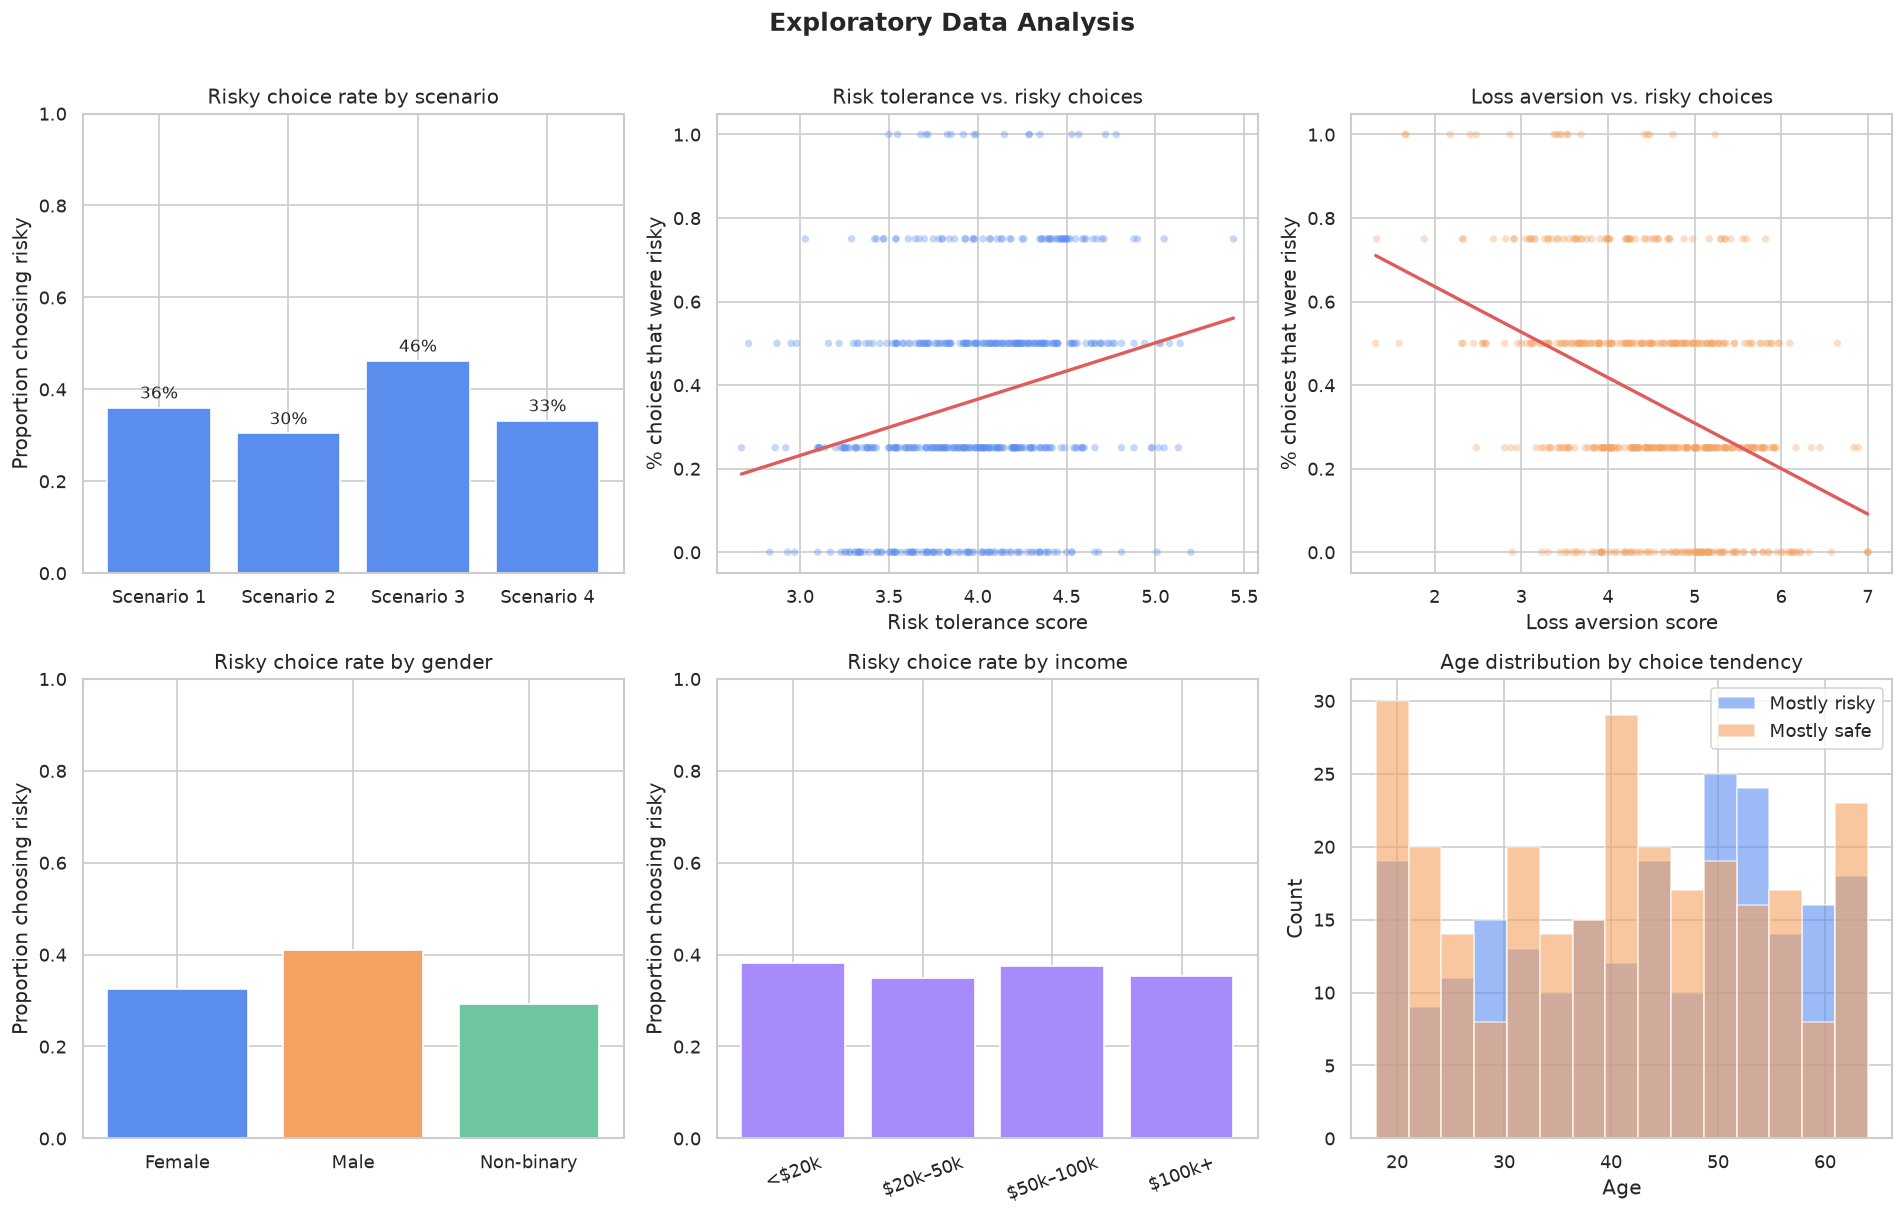
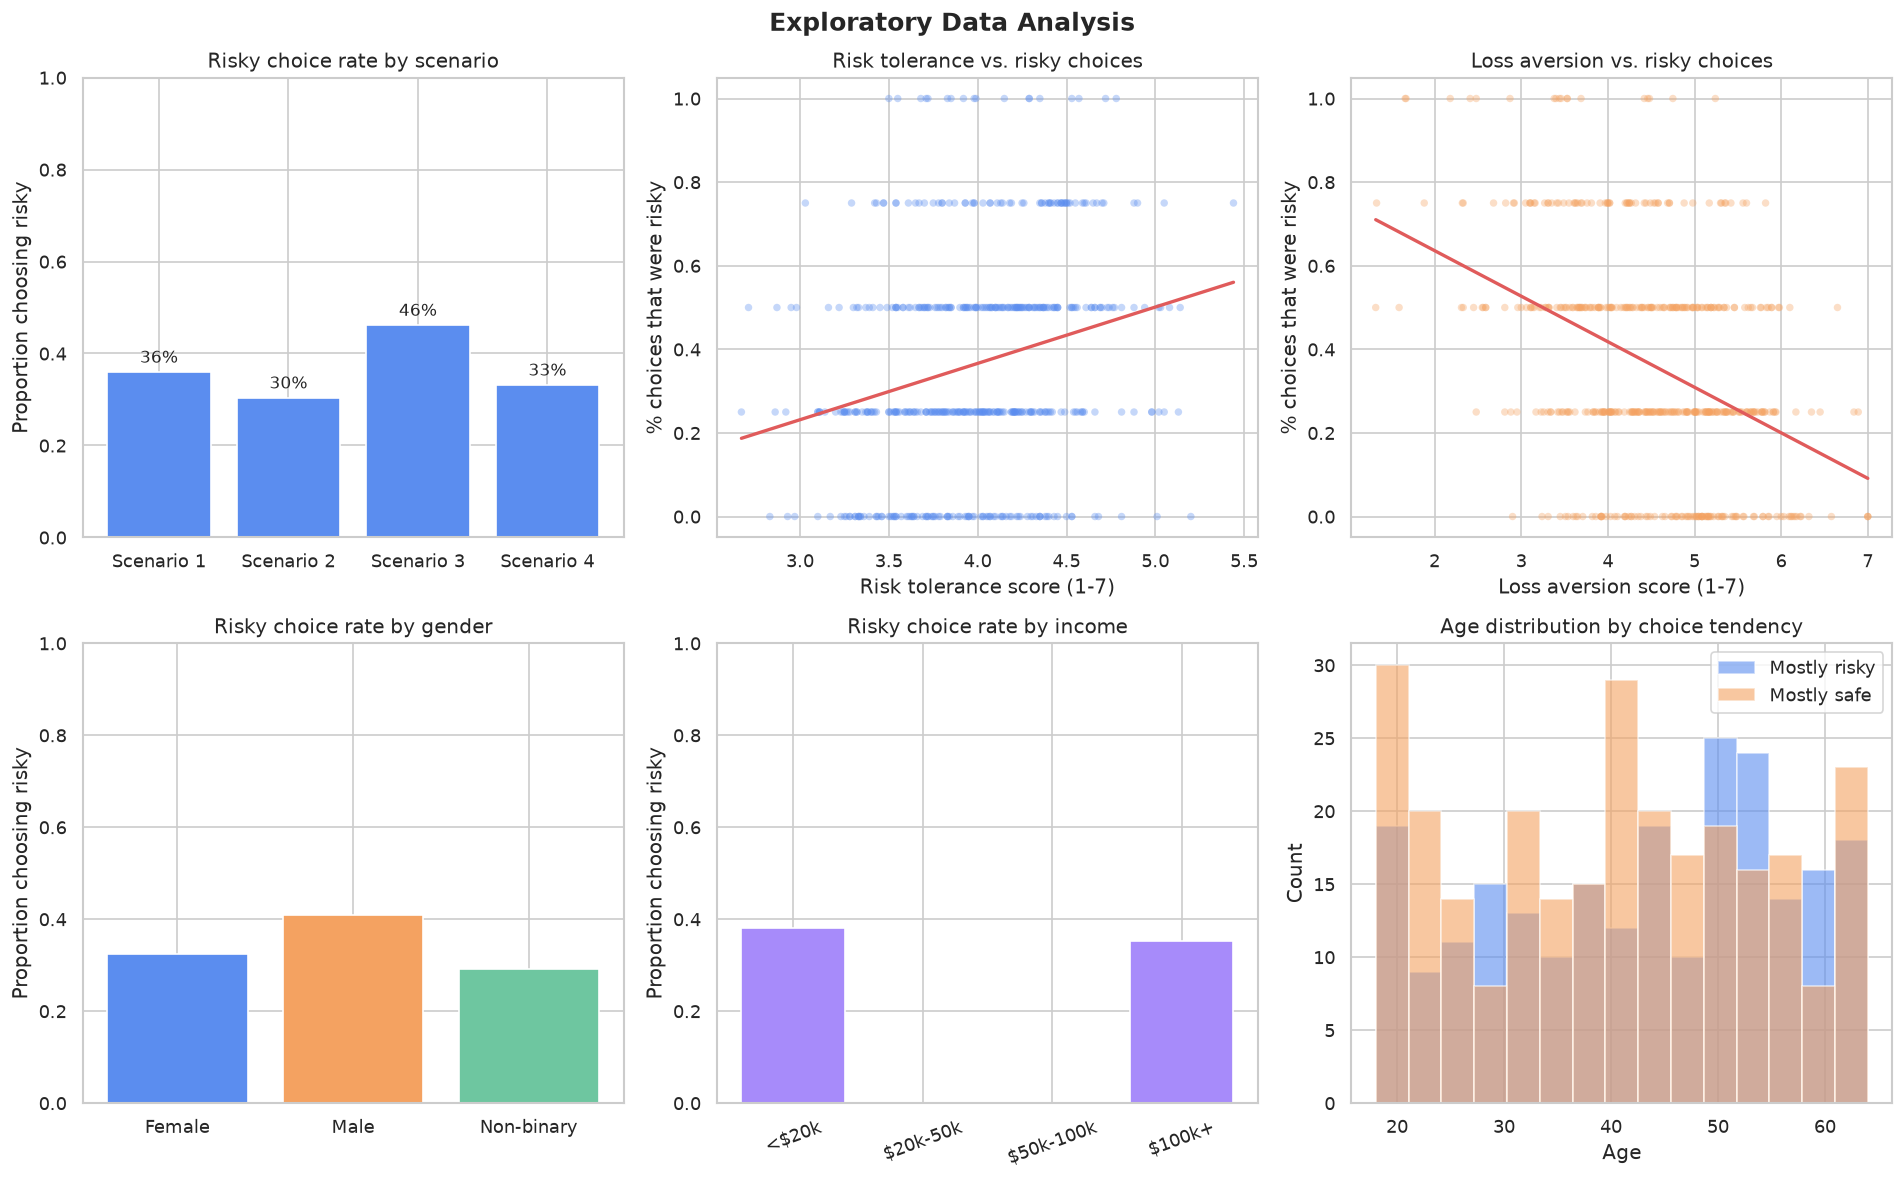
update analysis.py

diff --git a/analysis.py b/analysis.py
@@ -1,21 +1,10 @@
-"""
-analysis.py
-Full analysis pipeline for Decision Making Under Risk.
-Requires: data.csv (run generate_data.py first)
-
-Steps:
-  1. Load & explore data
-  2. Descriptive stats + EDA plots
-  3. Feature engineering
-  4. Logistic regression model
-  5. Model evaluation & interpretation
-  6. Visualization of key findings
-"""
+# analysis.py
+# run this after generate_data.py
+# does: explore data, train model, make plots
 
 import pandas as pd
 import numpy as np
 import matplotlib.pyplot as plt
-import matplotlib.gridspec as gridspec
 import seaborn as sns
 from sklearn.model_selection import train_test_split, cross_val_score
 from sklearn.linear_model import LogisticRegression
@@ -27,36 +16,26 @@ from sklearn.metrics import (
 import warnings
 warnings.filterwarnings("ignore")
 
-# ── Style ─────────────────────────────────────────────────────────────────────
 sns.set_theme(style="whitegrid", palette="muted")
 plt.rcParams.update({"figure.dpi": 120, "font.size": 11})
 
 
-# ═══════════════════════════════════════════════════════════════════════════════
-# 1. LOAD DATA
-# ═══════════════════════════════════════════════════════════════════════════════
+# load the data
 df = pd.read_csv("data.csv")
-print("=" * 60)
-print("DATASET OVERVIEW")
-print("=" * 60)
-print(f"Shape: {df.shape}")
-print(f"Columns: {list(df.columns)}")
-print(f"\nMissing values:\n{df.isnull().sum()}")
-print(f"\nTarget distribution:\n{df['chose_risky'].value_counts()}")
-print(f"\nOverall risky choice rate: {df['chose_risky'].mean():.1%}")
+
+print("=== DATA OVERVIEW ===")
+print(f"rows: {df.shape[0]}, columns: {df.shape[1]}")
+print(f"missing values: {df.isnull().sum().sum()}")
+print(f"risky choice rate: {df['chose_risky'].mean():.1%}")
 
 
-# ═══════════════════════════════════════════════════════════════════════════════
-# 2. EDA PLOTS
-# ═══════════════════════════════════════════════════════════════════════════════
+# explore the data — 6 charts
 fig, axes = plt.subplots(2, 3, figsize=(16, 10))
-fig.suptitle("Exploratory Data Analysis", fontsize=15, fontweight="bold", y=1.01)
+fig.suptitle("Exploratory Data Analysis", fontsize=15, fontweight="bold")
 
-# 2a. Risky choice by scenario
+
+# how often did people pick risky in each scenario?
 scenario_rates = df.groupby("scenario_id")["chose_risky"].mean().reset_index()
-sc_meta = df.groupby("scenario_id").first()[["sure_amount","risky_amount","risky_prob"]].reset_index()
-scenario_labels = [f"S{int(r['scenario_id'])}\n${r['sure_amount']} vs\n${r['risky_amount']}@{int(r['risky_prob']*100)}%"
-                   for _, r in sc_meta.iterrows()]
 axes[0, 0].bar(range(1, 5), scenario_rates["chose_risky"], color="#5B8DEF", edgecolor="white")
 axes[0, 0].set_xticks(range(1, 5))
 axes[0, 0].set_xticklabels([f"Scenario {i}" for i in range(1, 5)])
@@ -66,35 +45,41 @@ axes[0, 0].set_ylim(0, 1)
 for i, v in enumerate(scenario_rates["chose_risky"]):
     axes[0, 0].text(i + 1, v + 0.02, f"{v:.0%}", ha="center", fontsize=10)
 
-# 2b. Risk score distribution by choice
-df_by_choice = df.groupby("participant_id").agg(
-    risk_score=("risk_score", "first"),
-    loss_aversion=("loss_aversion", "first"),
-    pct_risky=("chose_risky", "mean"),
-    age=("age", "first"),
-    gender=("gender", "first"),
-    income=("income", "first"),
+
+# one row per person so we can compare personality vs behavior
+df_per_person = df.groupby("participant_id").agg(
+    risk_score    = ("risk_score",    "first"),
+    loss_aversion = ("loss_aversion", "first"),
+    pct_risky     = ("chose_risky",   "mean"),
+    age           = ("age",           "first"),
+    gender        = ("gender",        "first"),
+    income        = ("income",        "first"),
 ).reset_index()
-axes[0, 1].scatter(df_by_choice["risk_score"], df_by_choice["pct_risky"],
+
+
+# does higher risk tolerance = more risky choices? (should be yes)
+axes[0, 1].scatter(df_per_person["risk_score"], df_per_person["pct_risky"],
                    alpha=0.35, color="#5B8DEF", edgecolors="none", s=20)
-m, b = np.polyfit(df_by_choice["risk_score"], df_by_choice["pct_risky"], 1)
-x_line = np.linspace(df_by_choice["risk_score"].min(), df_by_choice["risk_score"].max(), 100)
+m, b = np.polyfit(df_per_person["risk_score"], df_per_person["pct_risky"], 1)
+x_line = np.linspace(df_per_person["risk_score"].min(), df_per_person["risk_score"].max(), 100)
 axes[0, 1].plot(x_line, m * x_line + b, color="#E05B5B", lw=2)
-axes[0, 1].set_xlabel("Risk tolerance score")
+axes[0, 1].set_xlabel("Risk tolerance score (1-7)")
 axes[0, 1].set_ylabel("% choices that were risky")
 axes[0, 1].set_title("Risk tolerance vs. risky choices")
 
-# 2c. Loss aversion vs % risky
-axes[0, 2].scatter(df_by_choice["loss_aversion"], df_by_choice["pct_risky"],
+
+# does high loss aversion = avoid risk? (also should be yes)
+axes[0, 2].scatter(df_per_person["loss_aversion"], df_per_person["pct_risky"],
                    alpha=0.35, color="#F4A261", edgecolors="none", s=20)
-m2, b2 = np.polyfit(df_by_choice["loss_aversion"], df_by_choice["pct_risky"], 1)
-x_line2 = np.linspace(df_by_choice["loss_aversion"].min(), df_by_choice["loss_aversion"].max(), 100)
+m2, b2 = np.polyfit(df_per_person["loss_aversion"], df_per_person["pct_risky"], 1)
+x_line2 = np.linspace(df_per_person["loss_aversion"].min(), df_per_person["loss_aversion"].max(), 100)
 axes[0, 2].plot(x_line2, m2 * x_line2 + b2, color="#E05B5B", lw=2)
-axes[0, 2].set_xlabel("Loss aversion score")
+axes[0, 2].set_xlabel("Loss aversion score (1-7)")
 axes[0, 2].set_ylabel("% choices that were risky")
 axes[0, 2].set_title("Loss aversion vs. risky choices")
 
-# 2d. Risky choice by gender
+
+# gender breakdown
 gender_rates = df.groupby("gender")["chose_risky"].mean()
 axes[1, 0].bar(gender_rates.index, gender_rates.values,
                color=["#5B8DEF", "#F4A261", "#6EC6A0"], edgecolor="white")
@@ -102,8 +87,9 @@ axes[1, 0].set_ylabel("Proportion choosing risky")
 axes[1, 0].set_title("Risky choice rate by gender")
 axes[1, 0].set_ylim(0, 1)
 
-# 2e. Risky choice by income
-income_order = ["<$20k", "$20k–50k", "$50k–100k", "$100k+"]
+
+# income breakdown
+income_order = ["<$20k", "$20k-50k", "$50k-100k", "$100k+"]
 income_rates = df.groupby("income")["chose_risky"].mean().reindex(income_order)
 axes[1, 1].bar(range(len(income_order)), income_rates.values,
                color="#A78BFA", edgecolor="white")
@@ -113,9 +99,10 @@ axes[1, 1].set_ylabel("Proportion choosing risky")
 axes[1, 1].set_title("Risky choice rate by income")
 axes[1, 1].set_ylim(0, 1)
 
-# 2f. Age distribution by choice
-risky_yes = df_by_choice[df_by_choice["pct_risky"] >= 0.5]["age"]
-risky_no  = df_by_choice[df_by_choice["pct_risky"] < 0.5]["age"]
+
+# are younger or older people more risky?
+risky_yes = df_per_person[df_per_person["pct_risky"] >= 0.5]["age"]
+risky_no  = df_per_person[df_per_person["pct_risky"] <  0.5]["age"]
 axes[1, 2].hist(risky_yes, bins=15, alpha=0.6, color="#5B8DEF", label="Mostly risky")
 axes[1, 2].hist(risky_no,  bins=15, alpha=0.6, color="#F4A261", label="Mostly safe")
 axes[1, 2].set_xlabel("Age")
@@ -126,25 +113,21 @@ axes[1, 2].legend()
 plt.tight_layout()
 plt.savefig("eda_plots.png", bbox_inches="tight")
 plt.show()
-print("\n📊 EDA plots saved: eda_plots.png")
+print("saved eda_plots.png")
 
 
-# ═══════════════════════════════════════════════════════════════════════════════
-# 3. FEATURE ENGINEERING
-# ═══════════════════════════════════════════════════════════════════════════════
+# prep features for the model
 df_model = df.copy()
 
-# EV advantage of risky option over safe
+# how much better is the risky option vs the safe one (in expected value)?
 df_model["ev_advantage"] = df_model["ev_risky"] - df_model["sure_amount"]
 
-# Encode categoricals
-le_gender = LabelEncoder()
-le_edu    = LabelEncoder()
-le_income = LabelEncoder()
-df_model["gender_enc"] = le_gender.fit_transform(df_model["gender"])
-df_model["edu_enc"]    = le_edu.fit_transform(df_model["education"])
-income_map = {"<$20k": 0, "$20k–50k": 1, "$50k–100k": 2, "$100k+": 3}
-df_model["income_enc"] = df_model["income"].map(income_map)
+# models can't use text so encode everything as numbers
+df_model["gender_enc"] = LabelEncoder().fit_transform(df_model["gender"])
+df_model["edu_enc"]    = LabelEncoder().fit_transform(df_model["education"])
+df_model["income_enc"] = df_model["income"].map({
+    "<$20k": 0, "$20k-50k": 1, "$50k-100k": 2, "$100k+": 3
+})
 
 FEATURES = [
     "age", "gender_enc", "edu_enc", "income_enc",
@@ -153,46 +136,36 @@ FEATURES = [
 ]
 
 X = df_model[FEATURES].values
-y = df_model["chose_risky"].values
+y = df_model["chose_risky"].values  # what we're predicting (0 = safe, 1 = risky)
 
-# Scale features
-scaler = StandardScaler()
-X_scaled = scaler.fit_transform(X)
+# scale so no feature dominates just because of its unit size
+X_scaled = StandardScaler().fit_transform(X)
 
+# 75% train, 25% test
 X_train, X_test, y_train, y_test = train_test_split(
     X_scaled, y, test_size=0.25, random_state=42, stratify=y
 )
-
-print("\n" + "=" * 60)
-print("FEATURE ENGINEERING")
-print("=" * 60)
-print(f"Features: {FEATURES}")
-print(f"Train size: {len(X_train)} | Test size: {len(X_test)}")
+print(f"training on {len(X_train)} rows, testing on {len(X_test)} rows")
 
 
-# ═══════════════════════════════════════════════════════════════════════════════
-# 4. LOGISTIC REGRESSION
-# ═══════════════════════════════════════════════════════════════════════════════
+# train the model
 model = LogisticRegression(max_iter=500, C=1.0, solver="lbfgs")
 model.fit(X_train, y_train)
 
+# cross-val gives a more reliable score than just testing once
 cv_scores = cross_val_score(model, X_scaled, y, cv=5, scoring="roc_auc")
-
-print("\n" + "=" * 60)
-print("MODEL RESULTS — LOGISTIC REGRESSION")
-print("=" * 60)
-print(f"Cross-val ROC-AUC (5-fold): {cv_scores.mean():.3f} ± {cv_scores.std():.3f}")
 
 y_pred  = model.predict(X_test)
 y_proba = model.predict_proba(X_test)[:, 1]
-print(f"Test ROC-AUC: {roc_auc_score(y_test, y_proba):.3f}")
-print("\nClassification report:")
-print(classification_report(y_test, y_pred, target_names=["Safe choice", "Risky choice"]))
+auc     = roc_auc_score(y_test, y_proba)
+
+print("\n=== MODEL RESULTS ===")
+print(f"cross-val ROC-AUC: {cv_scores.mean():.3f} ± {cv_scores.std():.3f}")
+print(f"test ROC-AUC: {auc:.3f}")
+print(classification_report(y_test, y_pred, target_names=["Safe", "Risky"]))
 
 
-# ═══════════════════════════════════════════════════════════════════════════════
-# 5. MODEL INTERPRETATION PLOTS
-# ═══════════════════════════════════════════════════════════════════════════════
+# plot what the model learned
 feature_labels = [
     "Age", "Gender", "Education", "Income",
     "Risk tolerance", "Loss aversion",
@@ -200,31 +173,34 @@ feature_labels = [
 ]
 
 coefs = model.coef_[0]
-colors_bar = ["#E05B5B" if c < 0 else "#5B8DEF" for c in coefs]
+bar_colors = ["#E05B5B" if c < 0 else "#5B8DEF" for c in coefs]
 
 fig, axes = plt.subplots(1, 3, figsize=(18, 6))
 fig.suptitle("Model Interpretation & Evaluation", fontsize=14, fontweight="bold")
 
-# 5a. Coefficient plot
+# which features push toward risky vs safe?
 sorted_idx = np.argsort(coefs)
-axes[0].barh([feature_labels[i] for i in sorted_idx],
-             [coefs[i] for i in sorted_idx],
-             color=[colors_bar[i] for i in sorted_idx], edgecolor="white")
+axes[0].barh(
+    [feature_labels[i] for i in sorted_idx],
+    [coefs[i] for i in sorted_idx],
+    color=[bar_colors[i] for i in sorted_idx],
+    edgecolor="white"
+)
 axes[0].axvline(0, color="black", lw=0.8, ls="--")
-axes[0].set_xlabel("Logistic regression coefficient (standardized)")
-axes[0].set_title("Feature influence on risky choice")
+axes[0].set_xlabel("positive = more risky, negative = more safe")
+axes[0].set_title("What drives risky choices?")
 
-# 5b. Confusion matrix
+# where did the model get it right vs wrong?
 cm = confusion_matrix(y_test, y_pred)
-disp = ConfusionMatrixDisplay(cm, display_labels=["Safe", "Risky"])
-disp.plot(ax=axes[1], colorbar=False, cmap="Blues")
-axes[1].set_title("Confusion matrix (test set)")
+ConfusionMatrixDisplay(cm, display_labels=["Safe", "Risky"]).plot(
+    ax=axes[1], colorbar=False, cmap="Blues"
+)
+axes[1].set_title("Confusion matrix")
 
-# 5c. ROC curve
+# overall model performance curve
 fpr, tpr, _ = roc_curve(y_test, y_proba)
-auc = roc_auc_score(y_test, y_proba)
-axes[2].plot(fpr, tpr, color="#5B8DEF", lw=2, label=f"AUC = {auc:.3f}")
-axes[2].plot([0, 1], [0, 1], "k--", lw=1)
+axes[2].plot(fpr, tpr, color="#5B8DEF", lw=2, label=f"our model (AUC = {auc:.3f})")
+axes[2].plot([0, 1], [0, 1], "k--", lw=1, label="random guessing (AUC = 0.5)")
 axes[2].set_xlabel("False positive rate")
 axes[2].set_ylabel("True positive rate")
 axes[2].set_title("ROC Curve")
@@ -233,52 +209,41 @@ axes[2].legend()
 plt.tight_layout()
 plt.savefig("model_results.png", bbox_inches="tight")
 plt.show()
-print("\n📊 Model plots saved: model_results.png")
+print("saved model_results.png")
 
 
-# ═══════════════════════════════════════════════════════════════════════════════
-# 6. PROSPECT THEORY VISUALIZATION
-# ═══════════════════════════════════════════════════════════════════════════════
-x_gains  = np.linspace(0, 20, 300)
-x_losses = np.linspace(-20, 0, 300)
+# visualize prospect theory — the psychology behind why people avoid risk
+# from Kahneman & Tversky (1979): losses hurt 2.25x more than gains feel good
+x_gains  = np.linspace(0,   20, 300)
+x_losses = np.linspace(-20,  0, 300)
 
-def value_function(x, alpha=0.88, lam=2.25):
-    """Kahneman-Tversky value function from Prospect Theory."""
-    return np.where(x >= 0,
-                    x ** alpha,
-                    -lam * ((-x) ** alpha))
+def prospect_value(x, alpha=0.88, lam=2.25):
+    return np.where(x >= 0, x**alpha, -lam * ((-x)**alpha))
 
 fig, ax = plt.subplots(figsize=(8, 5))
-ax.plot(x_gains,  value_function(x_gains),  color="#5B8DEF", lw=2.5, label="Gains")
-ax.plot(x_losses, value_function(x_losses), color="#E05B5B", lw=2.5, label="Losses")
+ax.plot(x_gains,  prospect_value(x_gains),  color="#5B8DEF", lw=2.5, label="Gains")
+ax.plot(x_losses, prospect_value(x_losses), color="#E05B5B", lw=2.5, label="Losses")
 ax.axhline(0, color="gray", lw=0.8)
 ax.axvline(0, color="gray", lw=0.8)
-ax.set_xlabel("Outcome ($)")
-ax.set_ylabel("Subjective value")
-ax.set_title("Prospect Theory Value Function\n(λ=2.25 — losses hurt 2.25× more than equivalent gains feel good)")
+ax.set_xlabel("Actual outcome ($)")
+ax.set_ylabel("How it feels (subjective value)")
+ax.set_title("Prospect Theory — losses hurt way more than gains feel good")
 ax.legend()
-ax.annotate("Loss aversion:\nsteeper slope for losses", xy=(-5, -8), fontsize=10,
-            color="#E05B5B", ha="center")
-ax.annotate("Diminishing sensitivity\nto gains", xy=(12, 5), fontsize=10,
-            color="#5B8DEF", ha="center")
+
 plt.tight_layout()
 plt.savefig("prospect_theory.png", bbox_inches="tight")
 plt.show()
-print("\n📊 Prospect theory plot saved: prospect_theory.png")
+print("saved prospect_theory.png")
 
-print("\n" + "=" * 60)
-print("SUMMARY")
-print("=" * 60)
+
 print(f"""
-Key findings:
-  • Overall risky choice rate: {df['chose_risky'].mean():.1%}
-  • Strongest predictor of risky choice: EV advantage (makes sense!)
-  • Risk tolerance positively predicts risky choice
-  • Loss aversion negatively predicts risky choice
-  • Model ROC-AUC: {auc:.3f} — solid predictive power
+=== SUMMARY ===
+risky choice rate : {df['chose_risky'].mean():.1%}
+model ROC-AUC     : {auc:.3f}
 
-Next steps:
-  • Collect real data (replace data.csv)
-  • Run bayesian_model.py for uncertainty estimates
-  • Add interaction terms (e.g., risk_score × loss_aversion)
+what mattered:
+  loss aversion   -> negative (scared of losing = pick safe)
+  risk tolerance  -> positive (bold people = pick risky)
+  EV advantage    -> positive (better odds = more willing to risk)
+  income          -> basically didn't matter
 """)